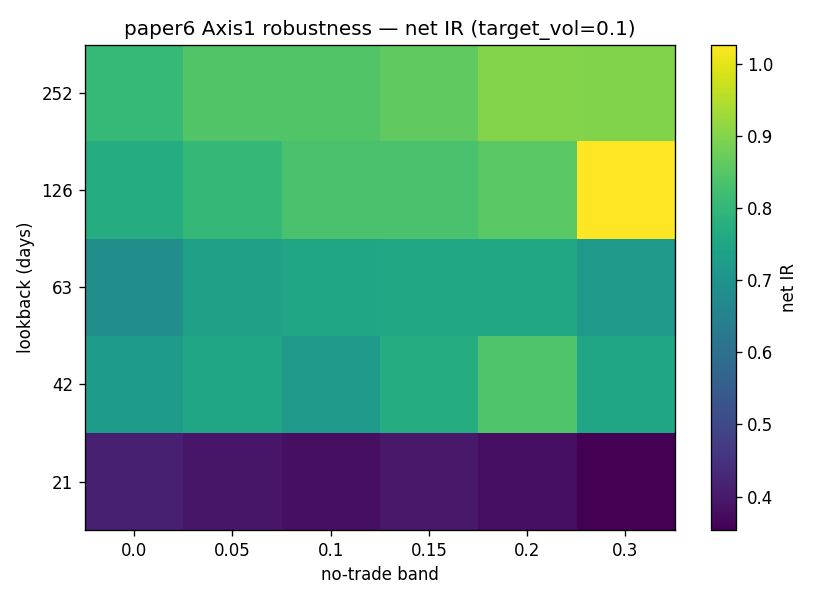
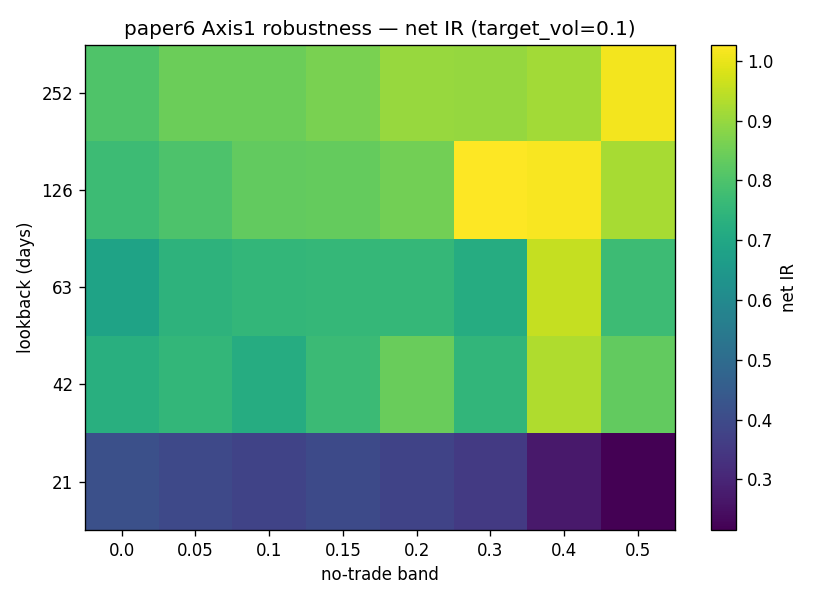
fix(paper6): Axis1 base config via multi-knob robust_pick (plateau interior, not argmax/grid-edge) + extend band grid

diff --git a/paper6/code/robustness.py b/paper6/code/robustness.py
@@ -62,3 +62,28 @@ def stable_center(rows, key, neighbor_span=1):
     centre_val = vals[best_run[len(best_run) // 2]]
     cands = [r for r in rows if r[key] == centre_val]
     return max(cands, key=lambda r: r["net_ir"])
+
+
+def robust_pick(rows, knobs, neighbor_span=1):
+    """Pick the config in the INTERIOR of the best stable plateau across ALL `knobs` jointly
+    (anti-overfit: rewards a config surrounded by other good configs, penalizes isolated spikes
+    and grid-edge cells that have few good neighbours). For each row, score it by its joint
+    neighbourhood (all rows within +/-neighbor_span grid-index on EVERY knob axis); return the
+    max-scoring row. `knobs`: list of knob names that form the grid axes.
+
+    The neighbourhood is summarised by its MEDIAN, not its mean: a single bright spike cannot
+    pull a corner cell's score up (a mean lets one 5.0 outlier win a tiny 4-cell corner), so an
+    isolated argmax/grid-edge spike is rejected and only a genuine plateau (a majority of good
+    neighbours) scores high. Ties break toward the cell with the LARGER neighbourhood (true
+    interior over edge), then the higher own net_ir."""
+    axes = {k: sorted({r[k] for r in rows}) for k in knobs}
+    pos = {k: {v: i for i, v in enumerate(axes[k])} for k in knobs}
+    best, best_key = None, None
+    for r in rows:
+        neigh = [x["net_ir"] for x in rows
+                 if all(abs(pos[k][x[k]] - pos[k][r[k]]) <= neighbor_span for k in knobs)]
+        # median = spike-robust centre of the joint neighbourhood; bigger neighbourhood = interior
+        key = (float(np.median(neigh)), len(neigh), r["net_ir"])
+        if best_key is None or key > best_key:
+            best, best_key = r, key
+    return best

diff --git a/paper6/code/tests/test_robustness.py b/paper6/code/tests/test_robustness.py
@@ -23,3 +23,19 @@ def test_stable_center_prefers_plateau_over_spike():
     best = robustness.stable_center(rows, key="lookback", neighbor_span=2)
     # the plateau center (120) wins, not the isolated spike (20)
     assert best["lookback"] == 120
+
+
+def test_robust_pick_prefers_2d_plateau_interior_over_edge_spike():
+    # a 3x3 grid: a bright spike at a CORNER (few neighbours) vs a plateau whose INTERIOR
+    # cell is surrounded by good neighbours. robust_pick must choose the interior, not the spike.
+    rows = []
+    for lb in (50, 100, 150):
+        for bd in (0.0, 0.1, 0.2):
+            ir = 1.0 if (lb in (100, 150) and bd in (0.1, 0.2)) else 0.0
+            rows.append({"lookback": lb, "band": bd, "net_ir": ir})
+    # plant a lone high spike at the (50, 0.0) corner
+    rows[0]["net_ir"] = 5.0
+    best = robustness.robust_pick(rows, knobs=["lookback", "band"], neighbor_span=1)
+    assert best["net_ir"] >= 1.0           # not the isolated 5.0 spike's neighbourhood
+    assert (best["lookback"], best["band"]) != (50, 0.0)   # never the corner spike
+    assert best["lookback"] in (100, 150) and best["band"] in (0.1, 0.2)  # plateau interior

diff --git a/paper6/code/run_robustness.py b/paper6/code/run_robustness.py
@@ -10,7 +10,8 @@ import eval as ev
 import robustness
 import rule
 
-GRID = {"lookback": [21, 42, 63, 126, 252], "band": [0.0, 0.05, 0.10, 0.15, 0.20, 0.30],
+GRID = {"lookback": [21, 42, 63, 126, 252],
+        "band": [0.0, 0.05, 0.10, 0.15, 0.20, 0.30, 0.40, 0.50],
         "target_vol": [0.10, 0.15, 0.20], "smooth_span": [5]}
 
 
@@ -27,8 +28,9 @@ def main():
         return ev.evaluate(pos, fwd, test_rows, spreads, band=band)["net_ir"]
 
     rows = robustness.sweep(GRID, score)
-    base = robustness.stable_center(rows, key="lookback", neighbor_span=1)
+    base = robustness.robust_pick(rows, knobs=["lookback", "band", "target_vol"], neighbor_span=1)
     print(f"[axis1] base config (stable center): {base}")
+    print(f"[axis1] (for contrast) argmax config: {max(rows, key=lambda r: r['net_ir'])}")
     # heatmap: lookback x band at the base target_vol
     import matplotlib
     matplotlib.use("Agg")
